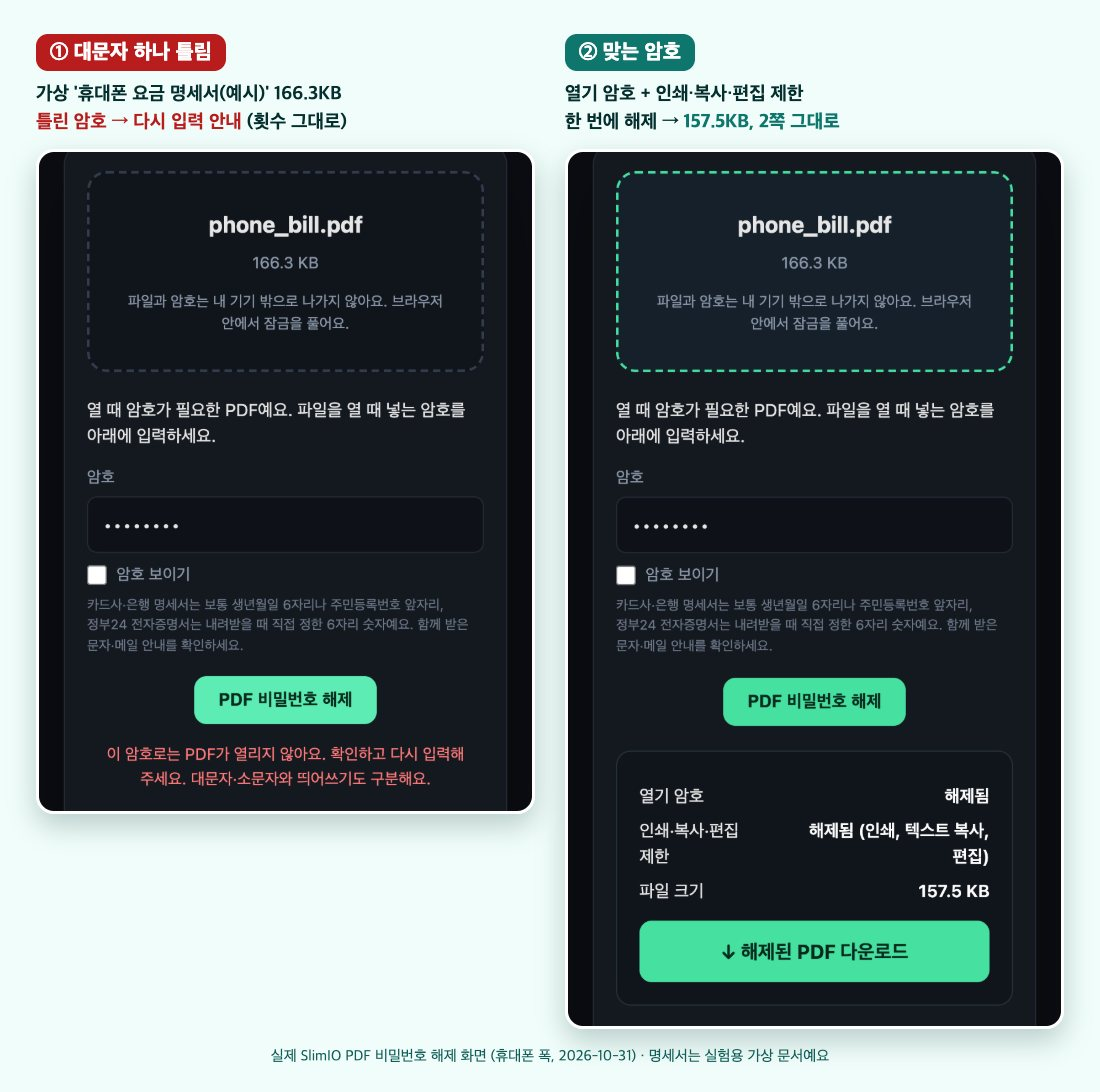
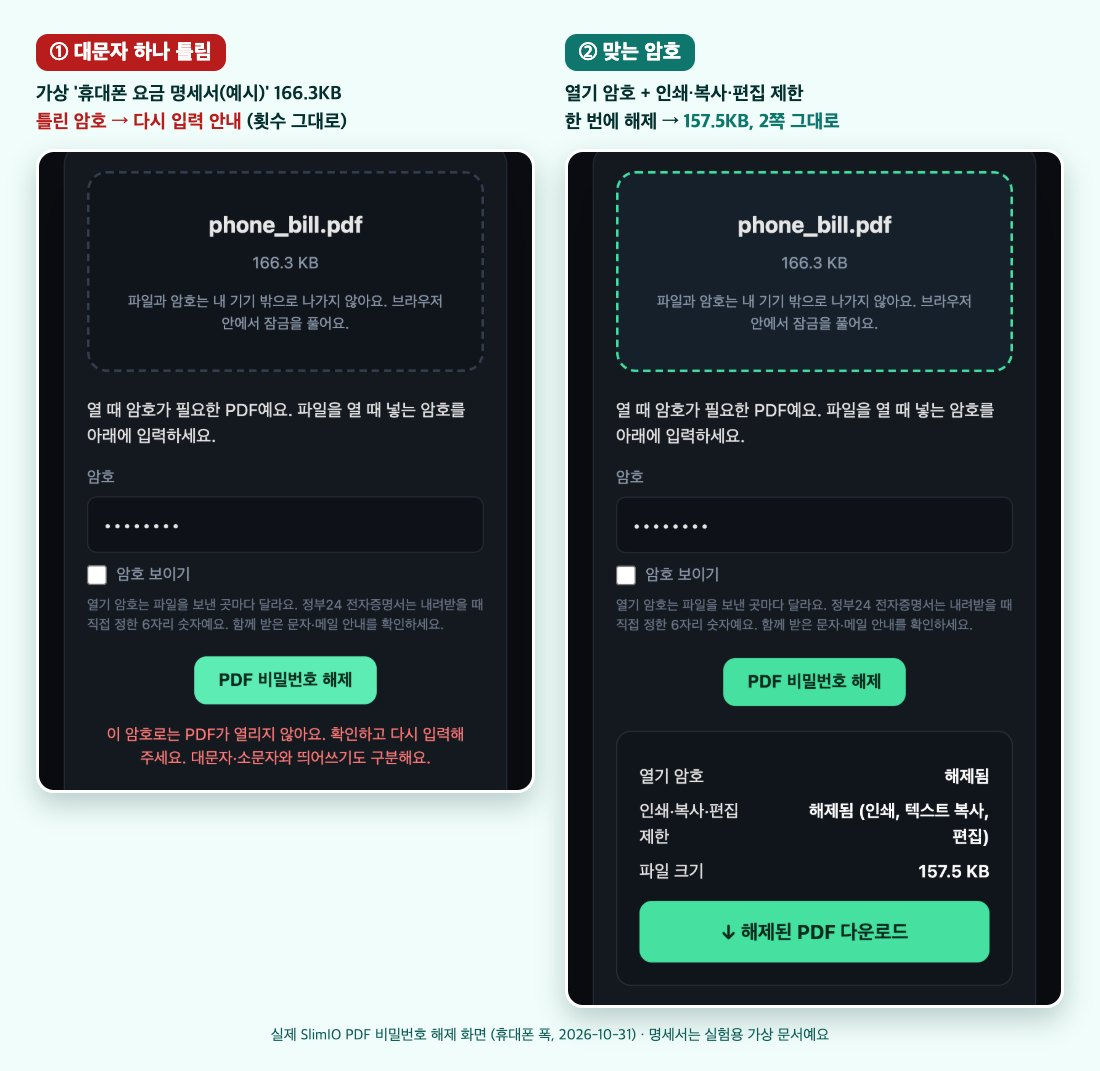
Re-shoot 5 unlock-pdf screenshots with the v94 hint (Tistory T14/T17/T18, Naver #46/#58); Naver image swap script

diff --git a/marketing/naver/editor/imgswap.py b/marketing/naver/editor/imgswap.py
@@ -1,0 +1,65 @@
+# imgswap.py <win> <YYYY.MM.DD> <HH> <old-image-name> <new-image-path> : in the scheduled post of that date and hour,
+# put a new image where an old one is and save it with its schedule unchanged. The new file needs a different name
+# (the tree names images by file name). Opens the post from the 예약 발행 list like tblfix_sched.py, selects the old
+# image, uploads the new one (img.sh puts it after the selected component), checks it landed right after the old one,
+# deletes the old one, checks the image count and the neighbouring text, then publishes only if the panel still says
+# 예약 · that date · HH:00 · 전체공개 · 10 tags. Anything unexpected leaves the editor without saving.
+import os, re, sys, time
+import tblfix as tf
+from tblfix_sched import go, wait_for, leave_unsaved, log, drafts, EDITOR
+tf.W = W = sys.argv[1]
+date, hh, old, new = sys.argv[2], int(sys.argv[3]), sys.argv[4], sys.argv[5]
+newname = os.path.basename(new)
+
+def fail(why): log(date, 'FAIL', why); leave_unsaved(); tf.done(); sys.exit(1)
+def images(t): return [(int(m.group(1)), m.group(2)) for m in re.finditer(r'^\s*(\d+) 이미지 (\S+)', t, re.M)]
+def around(t, name):
+    # the text lines just before and after the image, to see it stayed in the same place
+    rows = t.splitlines(); k = next(n for n, l in enumerate(rows) if re.match(rf'\s*\d+ 이미지 {re.escape(name)}', l))
+    near = lambda r: [re.sub(r'^\s*\d+ ', '', l) for l in r if re.match(r'\s*\d+ 텍스트', l)]
+    return near(rows[max(0, k - 6):k])[-1:], near(rows[k + 1:k + 8])[:1]
+
+if newname == old: sys.exit('the new file needs a different name')
+if not tf.guard(): log(date, 'STOP owner busy for 3 h'); sys.exit(2)
+go(EDITOR); tf.done(); time.sleep(5)
+t = wait_for(r'예약 발행 \d+ 건')
+if not t: fail('editor did not open')
+if '작성 중인 글이 있습니다' in t: tf.press(r'^버튼 취소$'); time.sleep(1.5)
+tf.press(r'^버튼 예약 발행 \d+ 건'); time.sleep(1.5)
+when = f'{date} {hh:02d}:00'
+item = [l for l in tf.tree().splitlines() if re.search(rf'\d+ 버튼 .* {re.escape(when)}$', l)]
+if len(item) != 1: fail(f'list item {len(item)}')
+title = re.match(rf'\s*\d+ 버튼 (.*) {re.escape(when)}$', item[0]).group(1).strip()
+if title not in drafts(): fail('no draft for ' + title)
+tf.press(rf'^버튼 .* {re.escape(when)}$'); time.sleep(4)
+if not wait_for(rf'텍스트, Value: {re.escape(title)}'): fail('post did not load')
+t = tf.tree(); before = images(t)
+if [n for _, n in before].count(old) != 1: fail(f'old image found {[n for _, n in before].count(old)} times')
+ctx = around(t, old)
+log(date, title[:30], 'images', len(before), 'old', old, 'near', ctx)
+i = next(k for k, n in before if n == old)
+tf.sh('python3', f'{tf.T}/c.py', W, '-', 'click', '--element-index', str(i)); tf.done(); time.sleep(0.8)
+r = tf.sh('bash', f'{tf.T}/img.sh', W, new); tf.done(); time.sleep(2)
+t = tf.tree(); mid = [n for _, n in images(t)]
+if newname not in mid or mid.index(newname) != mid.index(old) + 1: fail(f'new image not right after the old one: {mid}')
+i = next(k for k, n in images(t) if n == old)
+tf.sh('python3', f'{tf.T}/c.py', W, '-', 'click', '--element-index', str(i)); tf.done(); time.sleep(0.8)
+tf.k('press-key', '--key', 'Delete'); time.sleep(1.5)
+t = tf.tree(); after = [n for _, n in images(t)]
+want = [newname if n == old else n for _, n in before]
+if after != want: fail(f'images after delete {after}')
+if around(t, newname) != ctx: fail(f'neighbouring text changed {around(t, newname)}')
+log(date, 'swapped, images', after)
+if not tf.guard(): log(date, 'STOP owner busy for 3 h (post left open)'); sys.exit(2)
+tf.press(r'^버튼 발행$'); time.sleep(2)
+t = tf.tree(); y, mo, d = date.split('.')
+tags = re.findall(r'\d+ container (\S+)\n', t.split('태그 편집')[1].split('발행 시간')[0]) if '태그 편집' in t else []
+ok = (re.search(r'라디오 버튼 \(settable\) 예약, Value: 1', t) and f'Value: {y}. {mo}. {d}' in t
+      and re.search(rf'시간 선택, Value: {hh:02d}', t) and re.search(r'분 선택, Value: 00', t)
+      and re.search(r'전체공개, Value: 1', t) and len(tags) == 10)
+if not ok: fail(f'panel check, tags {len(tags)}')
+b = [l.split()[0] for l in t.splitlines() if re.match(r'\s*\d+ 버튼 발행$', l)]
+tf.sh('orca', 'computer', 'click', '--app', 'com.google.Chrome', '--window-id', W, '--element-index', b[-1], '--no-screenshot')
+tf.done(); time.sleep(5)
+home = re.search(r'주소창 및 검색창, Value: blog\.naver\.com/todayz777(,|$)', tf.tree(), re.M)
+log(date, 'SAVED' if home else 'CHECK: publish clicked but did not return to the blog home')

diff --git a/HANDOFF.md b/HANDOFF.md
@@ -141,6 +141,7 @@
 2-44. **클립 끝 장면 교체·클립 6개 예약 (2026-10-30 밤)** — 사장님 '클립 너무 광고처럼 뒤에 남기는데 괜찮나' → 노란 전체 화면 + 큰 pdfslimio.com + '무료 도구' 끝 장면(end) 대신 `recap`(같은 배경, 글의 핵심 숫자 체크리스트 + 작은 '…은 연결된 글에'), 도구 화면 라벨은 '실제 화면'만. 사장님 '1번으로 가자' → 공개된 02는 두고, 예약된 03~05를 사장님이 직접 지운 뒤 새 버전으로 다시 예약 + 새 클립 06 사진 50KB(#5)·07 메일 첨부(#6)·08 정부24 여권 사진(#8). 11/1·3·5·7·9·11 낮 12시, 목록에서 공개 예정 6건 + 공개 1건 확인. 여러 개 올리기는 `marketing/clips/lib/run_up.sh`
 3. **사용자 확인할 것:** 다른 계정(네이버 메일 등)에서 `contact@pdfslimio.com`으로 테스트 메일 → Gmail 수신 확인 / 폰에서 `pdfslimio.com/?notrack` 한 번 열기
 4. **티스토리 블로그 (2026-10-04~):** **2026-10-31 다시 시작:** 사장님 '티스토리는 너무 신경을 안써줬네'. Daum 검색(curl `search.daum.net/search?w=tot&q=…`)에서 옛 글 9개 중 7개가 블로그 결과 1위(국시원·컴활·PDF 도장·미국 비자 업로드·이력서 잡코리아·서명 이미지·여권 재발급), 증명사진 용량 4위, 중국 비자 안 나옴 → 티스토리 = Daum·구글 채널. 초안 T13~T19(`marketing/tistory/13~19`, HEIC·PDF 비밀번호·영국 ETA·호주 ETA·PDF 합치기·보건증·사진 여러 장 PDF, Daum 자동완성 `suggest.search.daum.net/sushi/opensearch/pc?q=` 기준 태그, 네이버 글과 다른 구성·문장·그림, overlap 12단어 ≤0.2%) → 그림 배포(다른 세션 whelk, v93) 뒤 **11/2~11/8 08:00 예약 완료(10/31 10:3x~10:52, 사장님 '지금 해')** — `marketing/tistory/tnew.py <창> <초안> <YYYY-MM-DD> <HH>`(새 글 → 카테고리 → HTML 모드 확인 → 제목 → 태그(본문 넣기 전, 칸이 화면에 있을 때) → 본문 → 완료(요소 클릭이 안 먹어서 좌표 1772,1166) → 공개 → 예약 날짜·시·분(증감자 increment/decrement) → 대표이미지(파일 선택, 시트의 열기 버튼) → 공개 발행 → 글 관리 목록 [예약] 날짜 확인). Cmd+A는 HTML 편집기에서 안 먹음 → 지울 땐 Cmd+Home, Cmd+Shift+End, BackSpace. 태그 칸 접근성 글자가 잘려서 개수는 스크린샷으로 확인. **GSC 등록(사장님 '티스토리 GSC 등록도 진행해', 10/31 10:1x):** URL 접두어 속성 https://ddoua.tistory.com/ — 메타 태그 등록 플러그인에 google-site-verification 추가(naver 태그 유지) → Ownership verified, sitemap.xml 제출(처음엔 Couldn't fetch, 며칠 뒤 확인). 이전 기록: `ddoua.tistory.com` — 블로그 이름 "문서·사진 생활 꿀팁"(원래 여행 블로그 이름에서 변경). 글 #1 증명사진 용량 줄이기 → https://ddoua.tistory.com/7 (초안 `marketing/tistory/01-id-photo.html`, 이미지는 사이트 `public/img/blog/`에서 불러옴, 대표이미지는 티스토리에 직접 업로드). 네이버 서치어드바이저에 블로그 등록(메타 태그는 티스토리 '메타 태그 등록' 플러그인), 사이트맵·글 수집 요청 완료. 글 #2 서명 이미지 + PDF 서명 → https://ddoua.tistory.com/8 (2026-10-05, 초안 `marketing/tistory/02-signature.html`). 카테고리 "문서·사진 꿀팁". 글 #3 PDF 용량 줄이기 → https://ddoua.tistory.com/9 (2026-10-06, 예시 문서는 직접 만든 '플리마켓 결과 보고서'). 글 #4 시험 원서 사진 규격(큐넷·공무원·한능검·토익) → https://ddoua.tistory.com/11 (2026-10-07, 초안 `marketing/tistory/04-exam-photo.html`, 네이버 수집 요청 완료. 발행 패널 기본값이 비공개로 바뀌어 있었음 → 공개 라디오 확인 필수). 글 #5 PDF 도장·직인 넣기 → https://ddoua.tistory.com/12 (2026-10-07, 초안 `marketing/tistory/05-pdf-stamp.html`, 예시는 가상 견적서·'예시상회' 직인, 네이버 수집 요청 완료). 이때 sign-pdf 업로드 배경 제거를 지역 종이 밝기 기준으로 바꿈(예전엔 회색 종이 사진이 통째로 남았음; 책상 가장자리는 아직 남음), 빨간 네모 직인은 64pt·이름 도장은 42pt로 들어감. 글 #6 미국 비자 사진(DS-160) → https://ddoua.tistory.com/13 (2026-10-09, 초안 `marketing/tistory/06-us-visa-photo.html`, 이미지 visa-hero/step1/step3 + 가이드의 visa-frame-ko, 네이버 수집 요청 완료). 대표이미지는 처음엔 못 넣었다가 **2026-10-13에 추가**(visa-hero.jpg, 발행일 10/9 그대로). 방법: 수정 화면(`/manage/newpost/13`)은 기본모드로 열리고, HTML 모드로 바꾸면 이미 변환된 HTML이 보임(첫 사진 `text-align:center` 빠짐·`data-ke-size` 추가). 그래서 편집기 클릭 → Cmd+↑ → Cmd+Shift+↓로 전체 선택(Cmd+A는 안 먹음) → 원본 본문 붙여넣기 → 완료 → 대표이미지 → 공개 발행. 발행 후 본문 HTML이 이전과 똑같은 것 확인(달라진 건 공유 썸네일뿐). 이제 글 8개 모두 대표이미지 있음. 글 #7 여권 재발급 온라인 사진 → https://ddoua.tistory.com/15 (2026-10-11, 초안 `marketing/tistory/07-passport-photo.html`, 대표이미지 passport-hero.jpg 업로드 성공 — 파일 선택 창에서 Cmd+Shift+G로 경로 입력, 네이버 수집 요청 완료, 캡차 없음). 글 #8 이력서 사진 크기(잡코리아·사람인) → https://ddoua.tistory.com/16 (2026-10-12, 초안 `marketing/tistory/08-resume-photo.html`, 이미지 resume-hero·resume-chips-ko, 대표이미지 resume-hero.jpg 업로드, 태그 9개, 네이버 수집 요청 완료, 캡차 없음). 글 #9 컴활 사진 규격(대한상의 400×500·50KB, ITQ) → https://ddoua.tistory.com/17 (2026-10-14, 초안 `marketing/tistory/09-korcham-photo.html`, 이미지 korcham-hero/ratio/chips, 대표이미지 korcham-hero.jpg, 태그 9개. 새 글쓰기 창을 열면 한글 입력기 "한" 표시가 AX 트리를 가려서(트리에 대화상자+IME 버튼만) 빈 곳을 좌표 클릭한 뒤 읽어야 했음). 글 #10 중국 비자 사진 → https://ddoua.tistory.com/18 (2026-10-21, 초안 `marketing/tistory/10-china-visa-photo.html`, 대표이미지 china-visa-hero.jpg, 태그 9개. 태그 칸이 화면 밖이면 클릭이 포커스를 못 옮겨서 붙여넣기가 본문 맨 앞에 들어감 → Cmd+Z 두 번으로 되돌리고, 작업 창을 Cmd+- 다섯 번(33%)으로 줄여 태그 칸을 좌표 클릭, 끝나고 Cmd+0). 글 #11 국시원 사진 → https://ddoua.tistory.com/19 (2026-10-21, 초안 `marketing/tistory/11-kuksiwon-photo.html`, 대표이미지 kuksiwon-hero.jpg, 태그 9개 — 본문 전에 태그를 먼저 넣으면 태그 칸 문제 없음). #12 운전면허 사진 초안 `marketing/tistory/12-driver-license-photo.html`은 **네이버 블로그 첫 글로 돌림**(티스토리 발행 금지 — 유사문서). 블로그는 티스토리만(네이버 블로그 안 함) — 단, 2026-10-21에 사장님이 새 네이버 블로그(blog.naver.com/todayz777, 글 0개)를 크롬에 열어 둠, 사장님이 "블로그에 다시 올리자" → 네이버 블로그 운영 시작. 첫 글 초안 `marketing/naver/01-driver-license-photo.html`(스마트에디터는 HTML 모드가 없어서 IMG 표시 자리마다 끊어서 HTML 클립보드(public.html, scratchpad nb/setclip.js)로 붙이고 사진은 편집기 사진 버튼으로 올리는 계획). **네이버 블로그 글 #1 발행 → https://blog.naver.com/todayz777/224449759909** (2026-10-22 오전, 카테고리 게시판, 전체공개·검색허용, 태그 10개 + 네이버가 자동으로 붙인 #첫글, 사진 3장·링크 2개 실제 글에서 확인). 방법(다음 글도 이대로): 글쓰기 창 도움말 패널 '닫기' → 제목 좌표 클릭 후 pbcopy+Cmd+V → 본문 클릭 → 사진 버튼(좌표, 인덱스는 금방 바뀜) → 열기 창 Cmd+Shift+G로 경로 → 열기 → 사진 뒤에 커서가 있으니 바로 HTML 조각 붙이기(표·소제목·굵게·링크 유지, 문단 사이 빈 줄은 없어짐) → 반복 → 발행 버튼 → 패널에서 태그 칸 클릭 후 태그마다 붙이기+Return → 패널 아래 발행. 네이버 블로그는 네이버 것이라 서치어드바이저 수집 요청 대상 아님(자동 수집). **블로그 기본 정보 (2026-10-22):** 블로그명 '문서·사진 생활 꿀팁'(티스토리와 같은 이름), 소개글 '증명사진·서명·PDF 파일, 사이트마다 다른 규격 맞추는 법을 공식 안내 기준으로 정리해요. 사진이 서버로 올라가지 않는 무료 도구 SlimIO(pdfslimio.com)를 직접 만들어 운영하고 있어요.', 내 블로그 주제 IT·컴퓨터, 프로필 이미지 = SlimIO 로고(`marketing/naver/slimio-profile.png`, favicon.svg에 여백 넣어 400px로 렌더) — '네이버 프로필에도 적용' 체크는 **풀고** 저장(사장님 네이버 계정 사진은 안 바꿈). 별명은 2026-10-22 저녁 사장님 결정으로 **'SlimIO 개발자'**(글마다 '제가 만든 무료 도구'라고 밝히는 것과 맞춤, 공개 확인). 카테고리 '게시판' → **'문서·사진 꿀팁'**, 주제분류 IT·컴퓨터, 발행 패널에서 '이 카테고리의 글은 항상 이 주제로 분류' 체크 → 다음 글부터 주제 자동. 글 #1도 수정 발행으로 주제 IT·컴퓨터(directorySeq 0→30) — 수정 화면 `PostUpdateForm.naver?blogId=todayz777&logNo=…`, 수정 후 본문·사진 3장·링크 2개 그대로 확인. **글 #2 반명함 사진 크기·여권→반명함·대학 원서·편입 → https://blog.naver.com/todayz777/224450364254** (2026-10-22, 초안 `marketing/naver/02-half-size-photo.html`, 새 대표 이미지 `public/img/blog/half-size-hero.jpg` — 샘플 가상 인물 두 장을 같은 배율로 비교, headless Chrome으로 HTML 렌더, + admission-hero.jpg, 태그 10개, 글 #1로 내부 링크). **붙여넣기 주의:** IMG 자리 바로 앞이 h2(소제목)이면 사진 뒤 줄이 소제목 서식을 이어받아 다음 조각 본문이 전부 19pt로 들어감 → Cmd+Z 한 번으로 되돌리고 빈 줄을 다시 클릭한 뒤 붙이면 15pt 본문으로 들어감(다음 초안부터는 IMG 앞에 h2를 두지 말 것). **포커스 주의:** 사장님이 Godot 게임(Tower Prototype DEBUG)을 띄워 두면 그 창이 혼자 앞으로 나와 키 입력(Cmd+V·Return)을 가져감 — 내 합성 입력도 HIDIdleTime을 0으로 만들어서 유휴 시간으로는 못 막음. 태그는 scratchpad t11/tag1.py(콤보에 set-value → --restore-window 후 앞 창이 Chrome인지 확인 → Return → `container <태그>` 생겼는지 확인)로 하나씩 넣음, 발행 버튼은 요소 클릭(AXPress)이라 포커스 상관없음. **글 #3 토익·텝스 사진 → https://blog.naver.com/todayz777/224450390223** (2026-10-22 18시, 초안 `marketing/naver/03-toeic-photo.html`, 새 대표 이미지 `public/img/blog/toeic-hero.jpg` + toeic-face-check-ko·language-hero, 태그 10개, 글 #2로 내부 링크). **도구 정리(scratchpad t11):** `k.sh <창> <orca 동작…>`(창 복원 → 앞 창이 Chrome인지 확인 → 키 입력), `img.sh <창> <경로>`(사진 버튼 → 열기 창 Cmd+Shift+G 재시도·경로·Return·열기, 실패하면 키를 더 안 보냄), `tag1.py <태그> <창>`(태그 칸을 요소 클릭으로 먼저 포커스 → set-value → Return → `container <태그>` 확인; 포커스 없이 Return을 보내면 발행 버튼에 가서 패널이 닫힘). orca는 대상 창이 포커스가 아니면 키 입력을 `window_not_focused`로 거절함 → 아까 Godot로 키가 갔을 걱정은 사실상 없음. Cmd+Shift+G가 열기 창이 뜨기 전에 가면 크롬 '페이지에서 찾기' 막대가 열려 포커스를 막음 → 그 창(제목 '…페이지에서 찾기')의 '검색 바 닫기'를 요소 클릭. **예약 발행 4건 (2026-10-22 저녁 등록, 모두 08:00, 문서·사진 꿀팁·IT·컴퓨터·전체공개·태그 10개):** 10/23 #4 사진 여러 장 PDF 하나로(`04-photos-to-pdf.html`, photos-pdf-* 3장) · 10/24 #5 사진 50KB·100KB·30~50KB 범위(`05-photo-kb.html`, 새 kb-hero + 실제 도구 화면 kb-range-tool-ko — playwright로 촬영, scratchpad nb5/shot.mjs) · 10/25 #6 메일·카톡 첨부 한도(`06-mail-attachment.html`, mail-attach-* 3장) · 10/26 #7 아이폰·맥 PDF 용량(`07-iphone-mac-pdf.html`, 새 iphone-mac-hero 비교 그래프 + 가이드 2장). 발행되면 각 초안 머리에 주소 적고, 지식iN 4번(30~50KB) 답변 링크를 #5 글로 바꿀 것. **예약 3건 추가 (2026-10-22 밤, 사장님 '1번 하자' — 티스토리에만 있던 주제를 네이버용으로 새로 쓰기, 복사 금지):** 10/27 #8 정부24 여권 재발급 사진(`08-passport-online.html`) · 10/28 #9 컴활 사진 등록 오류(`09-korcham-photo.html`) · 10/29 #10 큐넷·공무원·한능검 원서 사진(`10-exam-photo.html`). 티스토리 글과 12단어 이상 겹치는 문장은 공식 문구 인용 몇 개뿐(0~2%). 새 이미지: passport-online-hero·korcham-naver-hero·exam-naver-hero(HTML 렌더) + passport/korcham/qnet-tool-ko(실제 도구 화면 — scratchpad nb8/idshot2.mjs <preset> <photo> <out> <zoom> <dx> <dy>로 확대·틀 이동 후 촬영; 기본 틀은 얼굴에 안 맞으니 꼭 옮길 것). 이제 예약 7건(10/23~10/29). 편집기 작업은 t11/post.sh(제목·사진·조각) + finish.sh(태그·예약·검증·발행)로 한 글 3~4분. **남은 티스토리 주제:** 서명 이미지(#2), PDF 도장(#5), 미국 비자(#6), 이력서 사진(#8), 중국 비자(#10), 국시원(#11), 증명사진 용량(#1)·PDF 압축(#3)은 네이버 #5·#7과 겹쳐서 제외. **예약 3건 더 (2026-10-22 밤):** 10/30 #11 중국 비자(`11-china-visa.html`) · 10/31 #12 PDF 도장(`12-pdf-stamp.html`, 질문형 소제목·효력을 앞에) · 11/1 #13 미국 비자(`13-us-visa.html`). 예약 총 10건(10/23~11/1). 11월 날짜는 달력에서 '다음 달' 버튼(요소 클릭) 후 `버튼 1` 요소 클릭. **사장님 지적(10/22 밤): '전부 이미지가 다 똑같은데 괜찮나'** — 예시 인물이 한 명뿐(public/img/id-sample*.webp, us-visa-sample.webp 모두 같은 가상 인물)이라 대표 이미지·도구 화면에 같은 얼굴이 반복되고, 대표 이미지 틀(그라데이션·왼쪽 위 제목·SlimIO 로고)도 같음. 얼굴이 들어간 대표 이미지: #2·#3(발행됨), 예약된 #5·#8·#9·#11·#13. → **사장님 '좋아' 후 예약 글 5개 대표 이미지를 얼굴 없는 그림으로 교체(10/22 밤):** kb-cover(주황, 용량 막대), passport-cover(남색 도면), korcham-cover(보라, 오류 창), cn-visa-cover(빨강, 40~120KB 구간), us-visa-cover(정사각 격자 + 실루엣). HTML은 scratchpad hero2/. 예약 글 수정 방법: 편집기 '예약 발행 N건' → 글 제목 버튼 → 맨 위로 스크롤 → 첫 '이미지' 요소 클릭 → 이미지 툴바 '교체'(창 좌표 380,168) → 열기 창 → 발행 패널에서 예약·날짜 그대로인지 확인 → 발행(수정 저장, 예약 건수 그대로). t11/edit.sh <창> <제목 앞부분> <'2026. 10. 27'> <새 파일>. 발행된 #2·#3은 그대로 둠. 앞으로 대표 이미지에는 예시 인물 얼굴을 쓰지 말고 글마다 다른 그림·색으로(도구 화면 캡처는 실제 결과라 괜찮음). **예약 방법:** 발행 패널에서 예약 라디오(요소 클릭) → 날짜 칸 클릭 → 달력이 패널에 잘려 셋째 주부터 안 보이므로 Tab으로 날짜 버튼을 옮겨 `버튼 <일>`에 포커스 → Return → 시간·분 팝업은 요소 클릭으로 연 뒤 System Events keystroke "08"/"00" + Return(분 기본값이 현재 시각이라 꼭 00으로) → 패널 발행. 편집기 오른쪽 위 '예약 발행 N건' 버튼을 누르면 예약 글 목록과 날짜가 보임. scratchpad t11/sched.sh <창> <일> <시>. 세로로 긴 휴대폰 화면 사진은 small.sh로 '작게'+'가운데 정렬'. **다음 네이버 글 후보:** 여러 사진 PDF 하나로(자동완성 '여러 사진 pdf 합치는 법', 가이드 multiple-photos-to-pdf + photos-pdf-* 이미지), 핸드폰 사진 50KB·100KB(10/22 다운로드 1·2위, 티스토리 #1과 겹치지 않게 일반 사진 쪽). 네이버 RSS 제출은 캡차 후에도 목록에 안 남음(미완) 비공개 임시저장(망가진 첫 시도) 1개 남음 — 삭제는 마우스 올려 ✕
+   - **unlock-pdf 힌트 변경(v94) 뒤 그림 다시 찍음 (2026-10-31 14시, ondine-75):** 본문에는 지운 문구('카드사·은행 명세서는 보통 생년월일…')가 없었음(#58·#61·T18의 '생년월일 6자리'는 건강보험25시 앱 안내·e보건소 FAQ 인용이라 그대로 둠). 예전 힌트가 찍힌 도구 화면 그림 5장을 라이브 v94에서 같은 파일·같은 암호로 다시 찍음(숫자 모두 같음): 티스토리 pdf-password-tool-ko(T14, 11/3)·pdf-merge-ts-locked-ko(T17, 11/6)·health-cert-ts-unlock-ko(T18, 11/7) — 티스토리는 그림을 pdfslimio.com에서 바로 불러오므로 **배포하면 바로 반영(11/3 08시 전에 배포 필요)**. 네이버 pdf-unlock-tool-ko(#46, 11/21 19시)·nhis-cert-unlock-ko(#58, 11/22 19시) — 네이버는 편집기에 올린 사본이라 예약 글을 열어 그림을 바꿔야 함(아직 안 함, 화면 잠김).
 5. **홍보:** `marketing/PROMO.md` 순서대로 (AlternativeTo·SaaSHub 등록 → Show HN → GeekNews/디스콰이엇 → r/SideProject → X). 올린 날짜를 표에 기록
 6. **페이지 추가·수정 후 배포하면** `tools/indexnow.sh` 실행 + GSC·네이버에서 새 URL 색인 요청
    - 2026-09-29: 증명사진·50KB·20KB 6개 GSC 색인 요청 + GSC 사이트맵 재제출, 네이버 `/ko/` 3개 수집 요청 완료 (Claude가 `orca computer`로 Chrome 조작 — 사용자 로그인 세션 사용)
